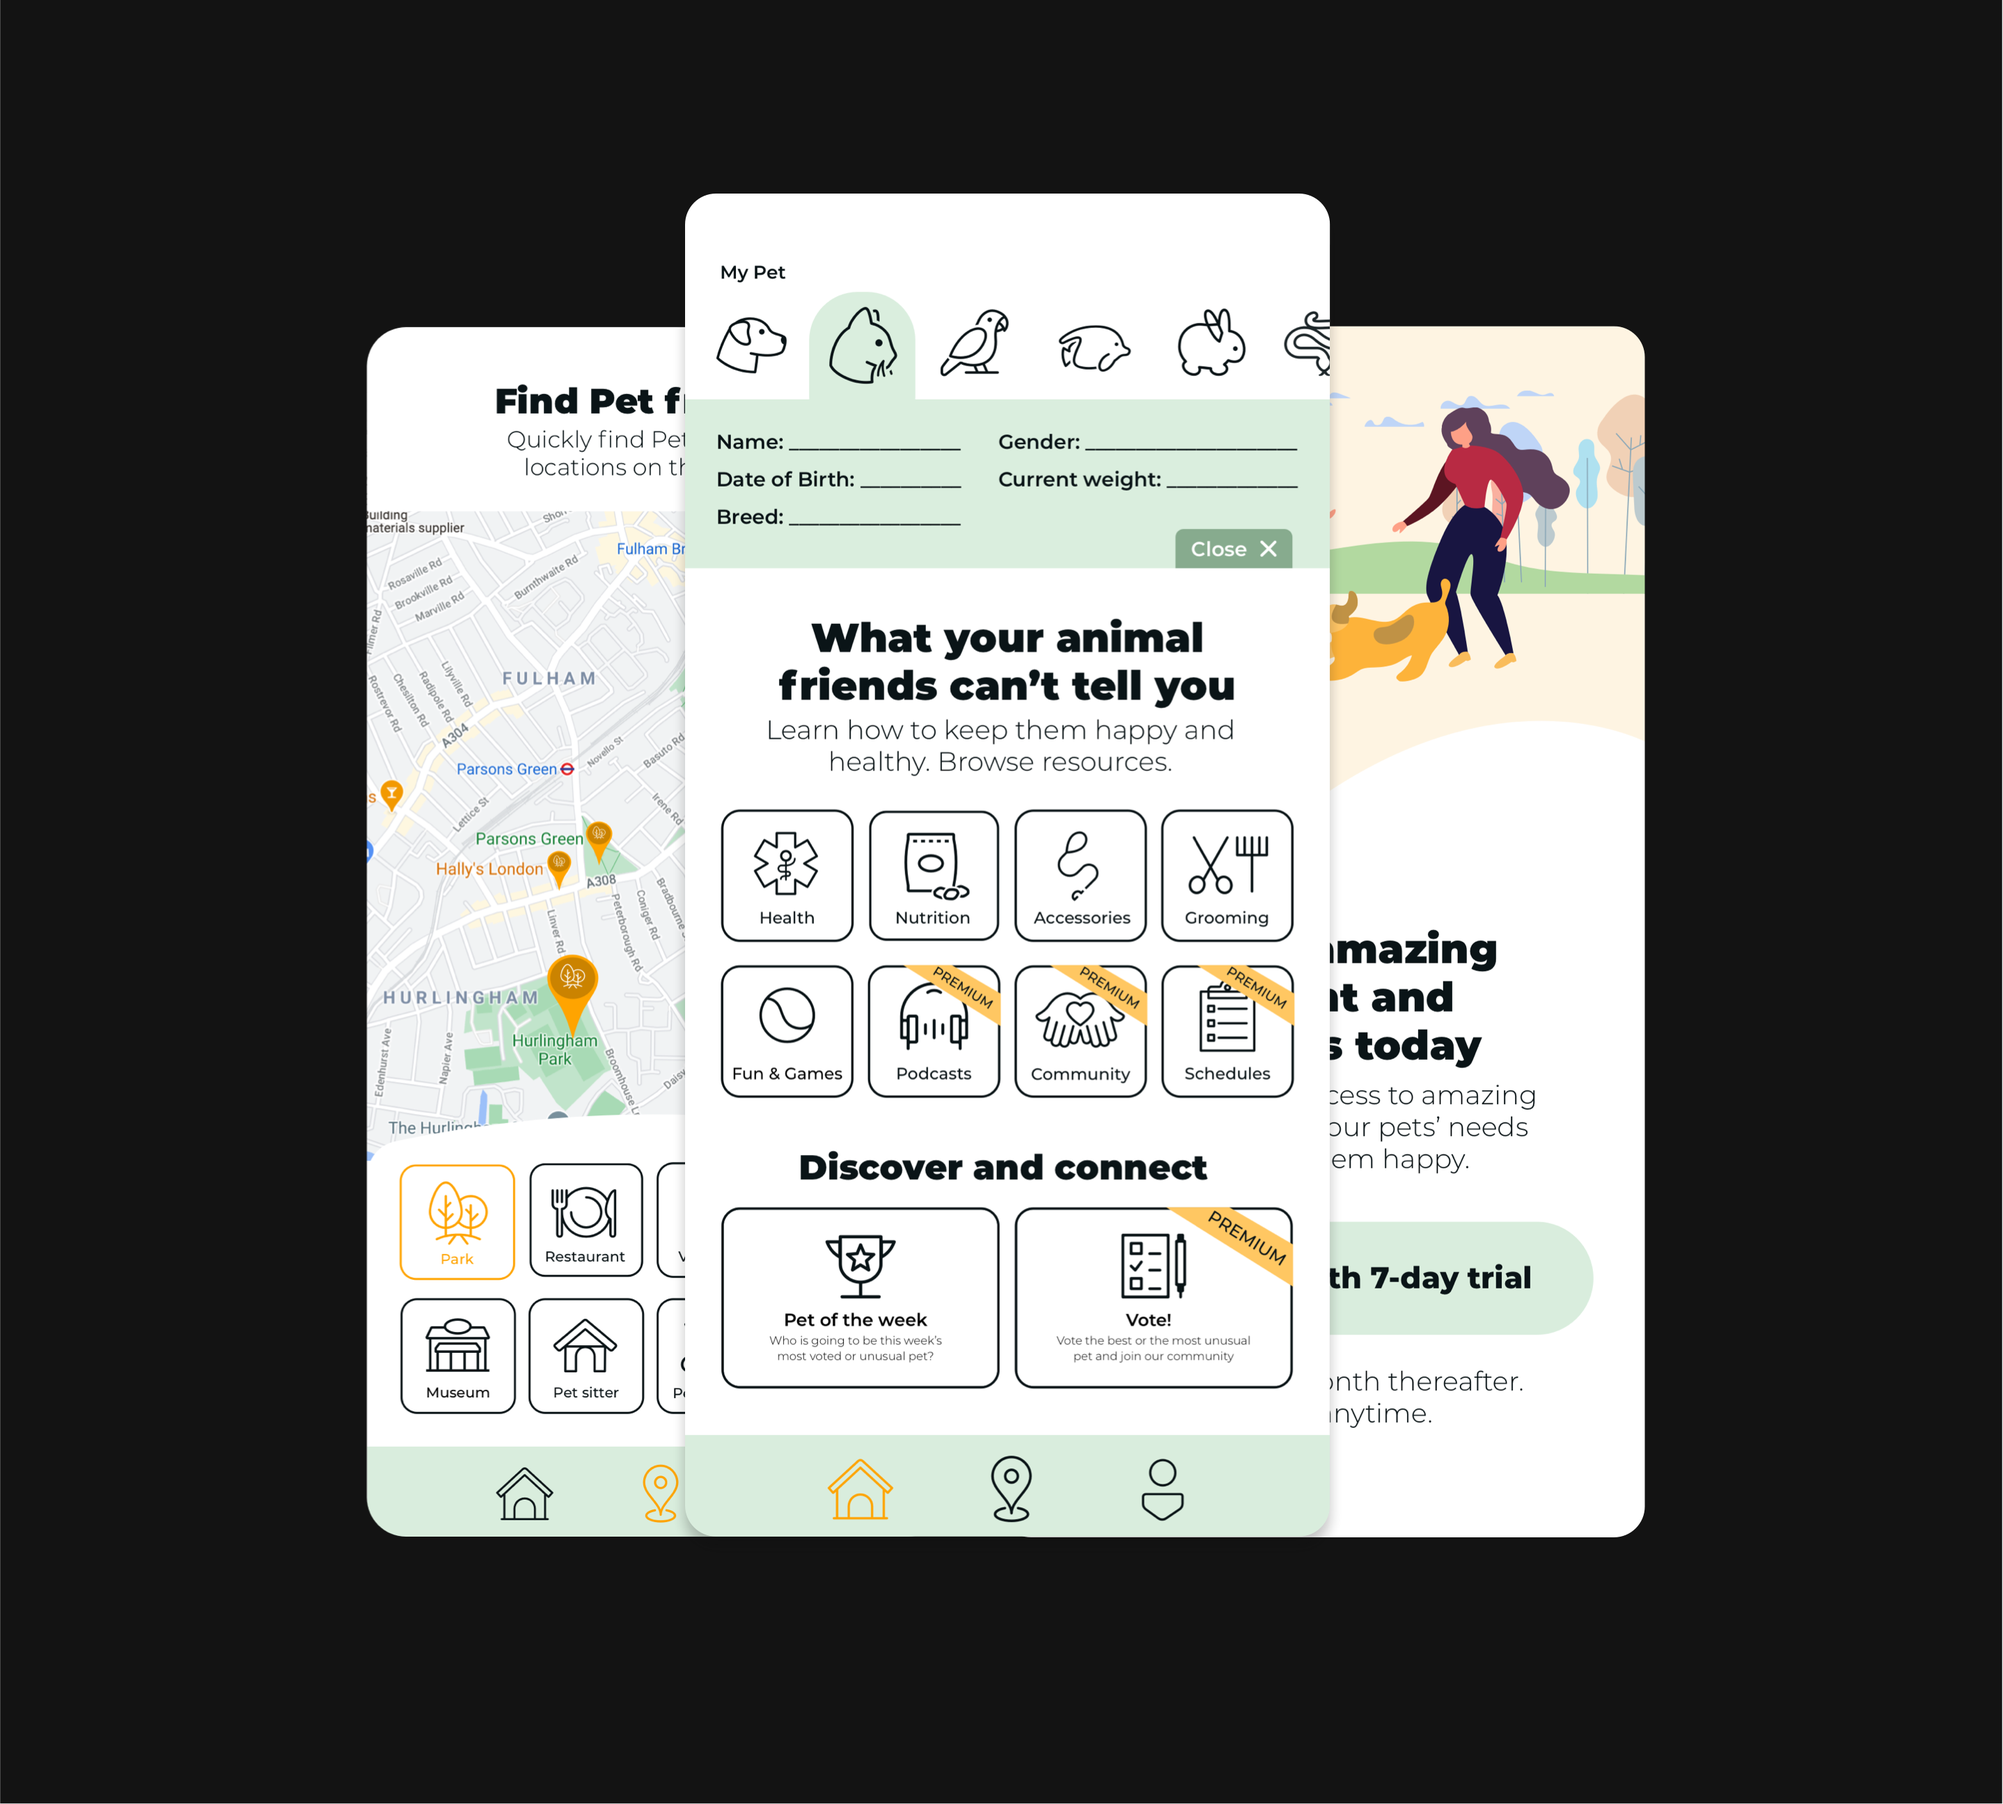
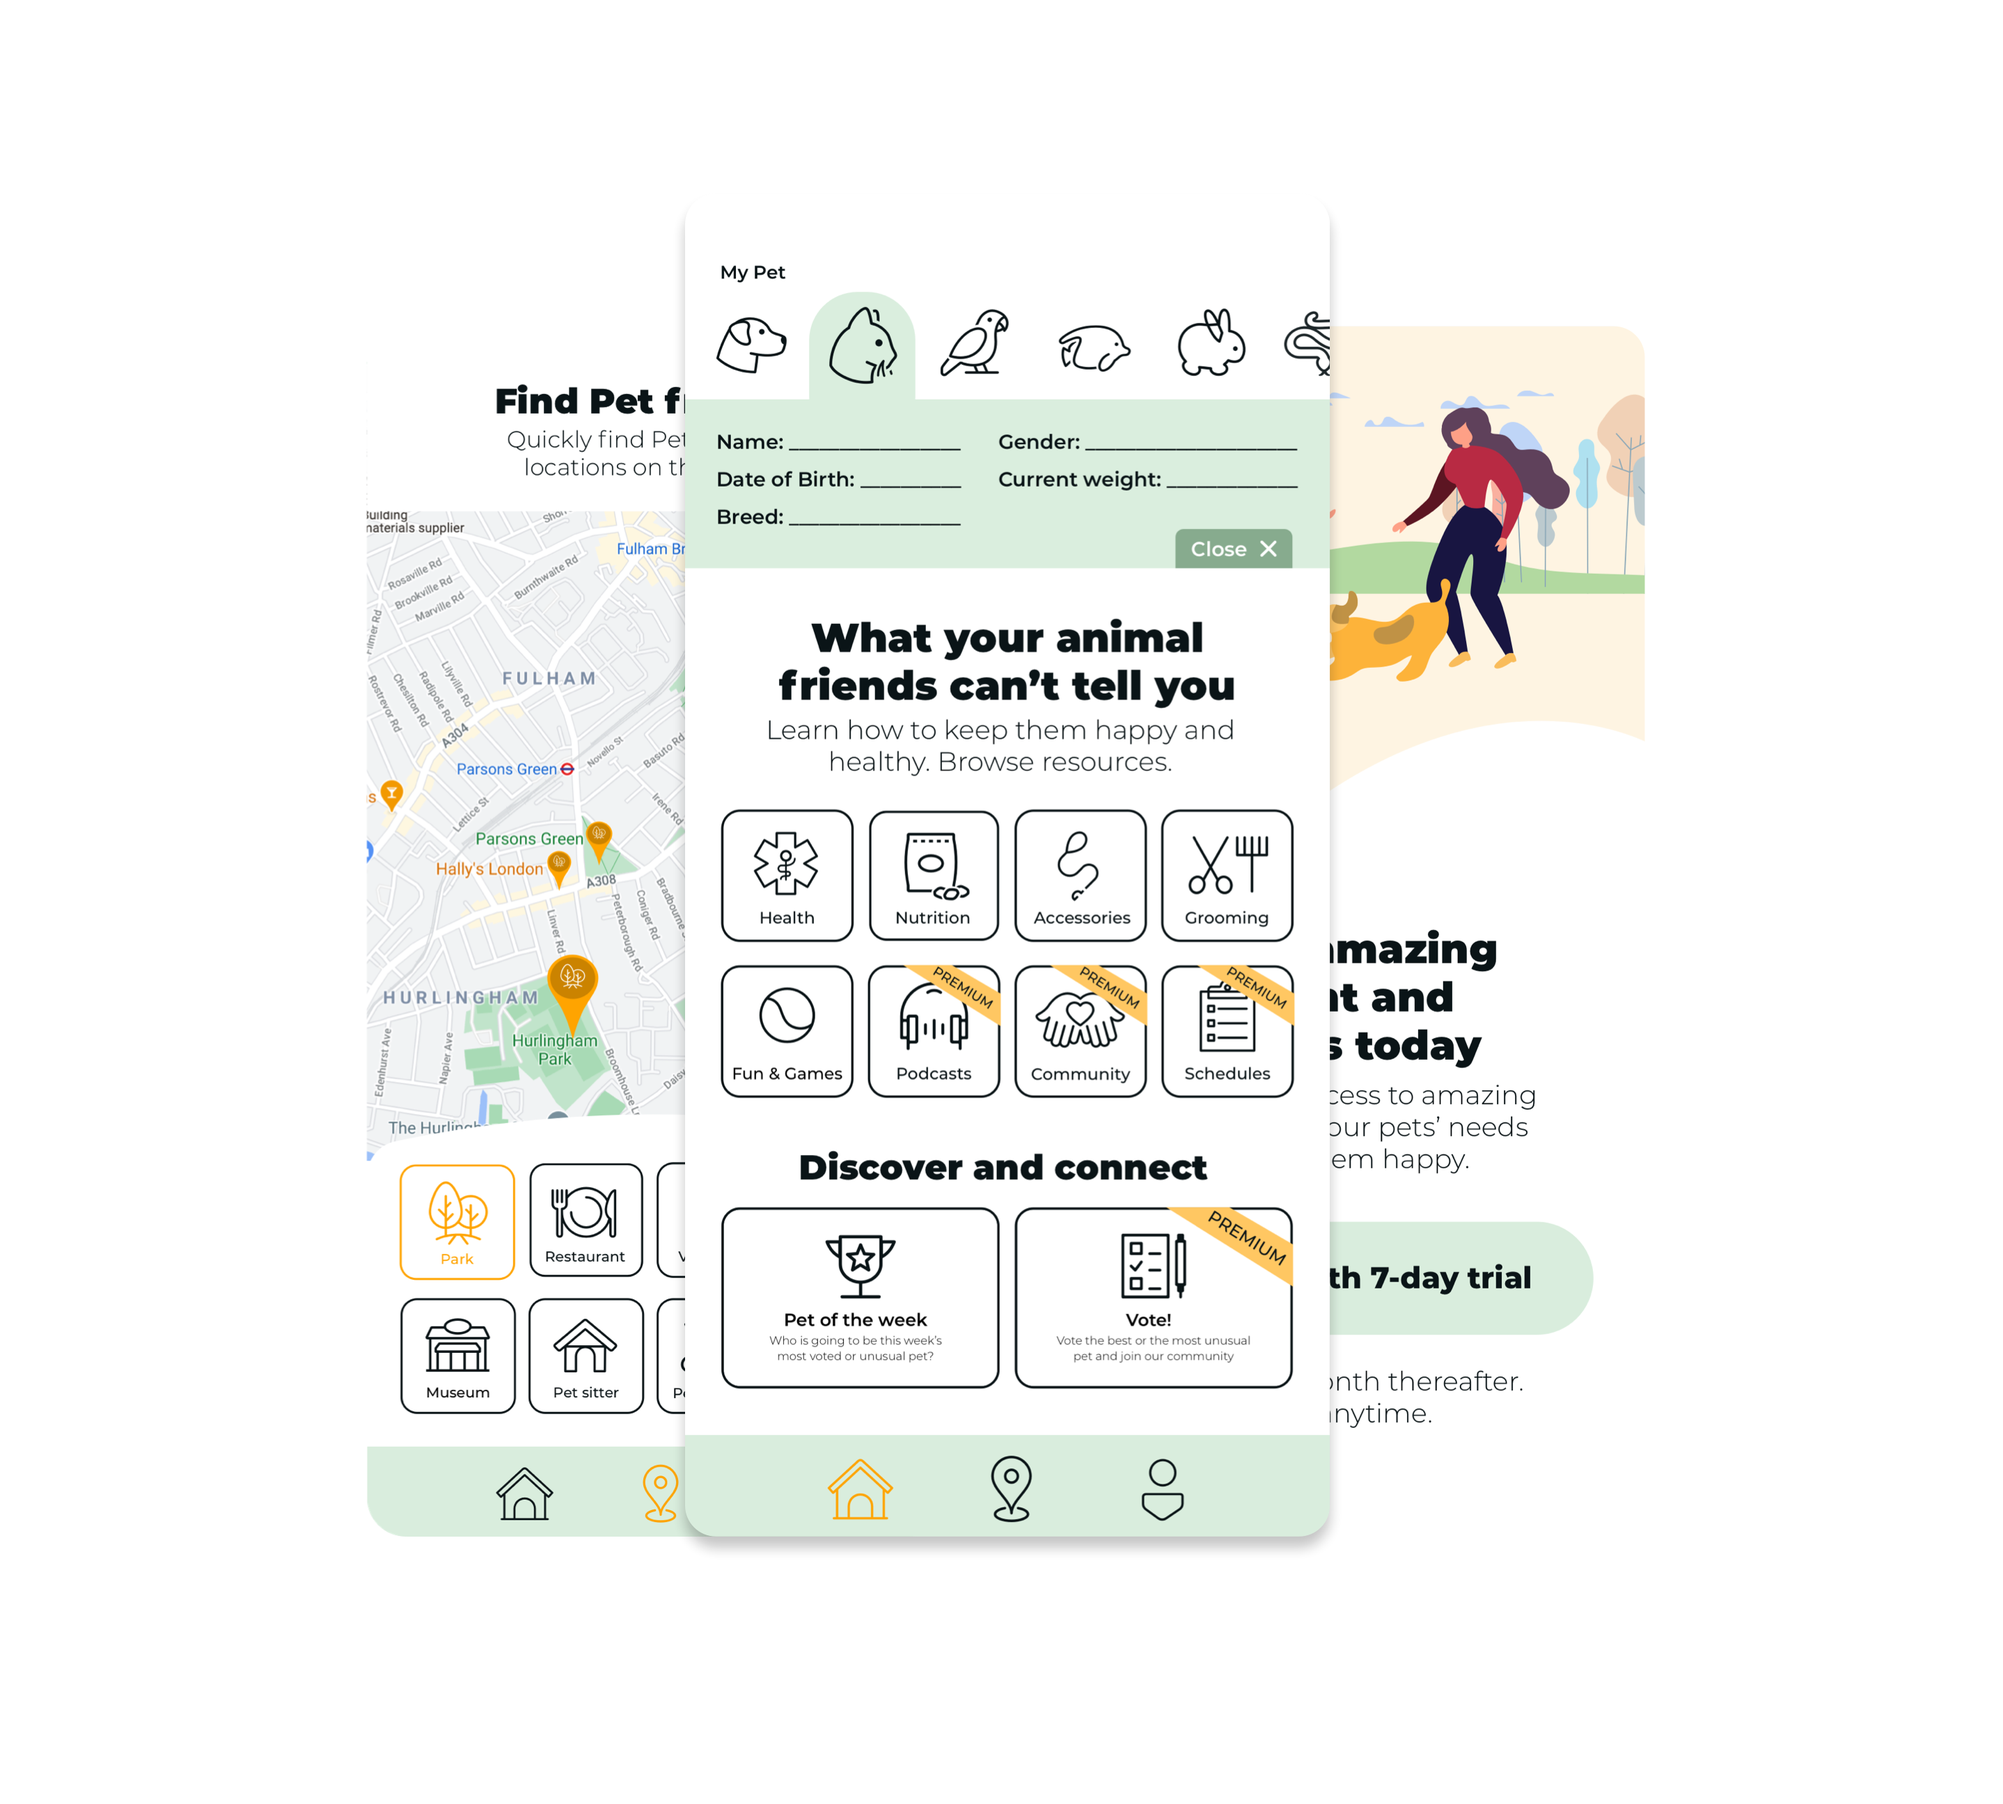
Visual update

diff --git a/src/pages/space-digest.js b/src/pages/space-digest.js
@@ -74,12 +74,12 @@ function spaceDigest() {
             <TransitionPageIn>
                <Img
                   fluid={data.spaceDigestImg_1.childImageSharp.fluid}
-                  className="max-w-screen-xxl mx-auto bg-blackPure"
+                  className="max-w-screen-xxl mx-auto bg-dark"
                   loading="eager"
                />
                <div className="w-full bg-white">
                   <div className="pt-10 pb-20 md:pt-28 md:pb-48">
-                     <section className="w-11/12 md:w-7/12 max-w-screen-lg mx-auto text-black md:flex mt-8 md:mt-32 mb-0">
+                     <section className="w-11/12 md:w-7/12 max-w-screen-lg mx-auto text-dark md:flex mt-8 md:mt-32 mb-0">
                         <div className="hidden md:block md:w-4/12 md:mt-20">
                            <h4 className="font-extrabold uppercase tracking-widest mt-2">Description</h4>
                            {/* <h4 className="pt-4">App design</h4> */}
@@ -93,7 +93,7 @@ function spaceDigest() {
                            </p>
                         </div>
                      </section>
-                     <section className="w-11/12 md:w-7/12 max-w-screen-lg mx-auto text-black md:flex mt-10 md:mt-12 mb-0">
+                     <section className="w-11/12 md:w-7/12 max-w-screen-lg mx-auto text-dark md:flex mt-10 md:mt-12 mb-0">
                         <div className="hidden md:block md:w-4/12 md:mt-20">
                            <h4 className="uppercase tracking-widest mt-2">Design</h4>
                            {/* <h4 className="pt-4">App design</h4> */}
@@ -107,7 +107,7 @@ function spaceDigest() {
                            </p>
                         </div>
                      </section>
-                     <section className="w-11/12 md:w-7/12 max-w-screen-lg mx-auto text-black md:flex mt-10 md:mt-12 mb-0">
+                     <section className="w-11/12 md:w-7/12 max-w-screen-lg mx-auto text-dark md:flex mt-10 md:mt-12 mb-0">
                         <div className="hidden md:block md:w-4/12 md:mt-20">
                            <h4 className="uppercase tracking-widest mt-2">Development</h4>
                            {/* <h4 className="pt-4">App design</h4> */}
@@ -122,7 +122,7 @@ function spaceDigest() {
                            </p>
                         </div>
                      </section>
-                     <section className="w-11/12 md:w-7/12 max-w-screen-lg mx-auto text-black md:flex mt-10 md:mt-12 mb-0">
+                     <section className="w-11/12 md:w-7/12 max-w-screen-lg mx-auto text-dark md:flex mt-10 md:mt-12 mb-0">
                         <div className="hidden md:block md:w-4/12 md:mt-20">
                            <h4 className="font-extrabold uppercase tracking-widest mt-2">Website</h4>
                            {/* <h4 className="pt-4">App design</h4> */}
@@ -139,7 +139,7 @@ function spaceDigest() {
                            </a>
                         </div>
                      </section>
-                     <section className="w-11/12 md:w-7/12 max-w-screen-lg mx-auto flex space-x-4 md:space-x-16 text-black mt-10 md:mt-32 mb-0">
+                     <section className="w-11/12 md:w-7/12 max-w-screen-lg mx-auto flex space-x-4 md:space-x-16 text-dark mt-10 md:mt-32 mb-0">
                         <Img
                            fluid={data.spaceDigestImg_2.childImageSharp.fluid}
                            className="flex-1 shadow-lg"
@@ -153,7 +153,7 @@ function spaceDigest() {
                            alt="App screen"
                         />
                      </section>
-                     <section className="w-11/12 md:w-7/12 max-w-screen-lg mx-auto flex space-x-4 md:space-x-16 text-black mt-10 md:mt-32 mb-0">
+                     <section className="w-11/12 md:w-7/12 max-w-screen-lg mx-auto flex space-x-4 md:space-x-16 text-dark mt-10 md:mt-32 mb-0">
                         <Img
                            fluid={data.spaceDigestImg_4.childImageSharp.fluid}
                            className="flex-1 shadow-lg"

diff --git a/src/pages/pet-time.js b/src/pages/pet-time.js
@@ -119,12 +119,12 @@ function petTime() {
             title="Portfolio page PetTime App"
          />
 
-         <div className="w-12/12 mx-auto bg-dark text-dark">
+         <div className="w-12/12 mx-auto bg-dark">
             <TransitionPageIn>
                <Img className="max-w-screen-xl mx-auto" fluid={data.petTime_1.childImageSharp.fluid} loading="eager" />
                <div className="w-full bg-white">
                   <div className="w-full mx-auto pt-1 pb-10 md:pb-20 md:pt-32">
-                     <section className="w-11/12 md:w-7/12 max-w-screen-lg mx-auto md:flex ">
+                     <section className="w-11/12 md:w-7/12 max-w-screen-lg mx-auto md:flex text-dark">
                         <div className="md:w-4/12 mt-0 hidden md:block md:mt-20">
                            <h4 className="font-extrabold uppercase tracking-widest mt-2">Description</h4>
                            <h4 className="pt-1">App design</h4>
@@ -145,7 +145,7 @@ function petTime() {
                            </p>
                         </div>
                      </section>
-                     <section className="w-11/12 md:w-7/12 max-w-screen-lg mx-auto text-black md:flex mt-8 md:mt-16 mb-0">
+                     <section className="w-11/12 md:w-7/12 max-w-screen-lg mx-auto text-dark md:flex mt-8 md:mt-16 mb-0">
                         <div className="hidden md:block md:w-4/12 mt-0 md:mt-20">
                            <h4 className="font-extrabold uppercase tracking-widest mt-2">Skills applied</h4>
                            <h4 className="pt-1">
@@ -185,7 +185,7 @@ function petTime() {
                            </p>
                         </div>
                      </section>
-                     <section className="w-11/12 md:w-7/12 max-w-screen-lg mx-auto text-black md:flex mt-8 md:mt-16 mb-0">
+                     <section className="w-11/12 md:w-7/12 max-w-screen-lg mx-auto text-dark md:flex mt-8 md:mt-16 mb-0">
                         <div className="hidden md:block md:w-4/12 mt-0 md:mt-20">
                            <h4 className="font-extrabold uppercase tracking-widest mt-2">Problem</h4>
                         </div>
@@ -203,7 +203,7 @@ function petTime() {
                            </p>
                         </div>
                      </section>
-                     <section className="w-11/12 md:w-7/12 max-w-screen-lg mx-auto text-black md:flex mt-8 md:mt-16 mb-0">
+                     <section className="w-11/12 md:w-7/12 max-w-screen-lg mx-auto text-dark md:flex mt-8 md:mt-16 mb-0">
                         <div className="hidden md:block md:w-4/12 mt-0 mb-10 md:mt-20">
                            <h4 className="font-extrabold uppercase tracking-widest mt-2">Solution</h4>
                         </div>
@@ -217,7 +217,7 @@ function petTime() {
                            </p>
                         </div>
                      </section>
-                     <section className="w-11/12 md:w-7/12 max-w-screen-lg mx-auto text-black mt-8 md:mt-16 mb-0">
+                     <section className="w-11/12 md:w-7/12 max-w-screen-lg mx-auto text-dark mt-8 md:mt-16 mb-0">
                         <div className="md:flex">
                            <div className="hidden md:block md:w-4/12 mt-0 md:mt-20"></div>
                            <h2 className="mb-4 md:mb-8">User Personas</h2>
@@ -239,7 +239,7 @@ function petTime() {
                            ))}
                         </div>
                      </section>
-                     <section className="w-11/12 md:w-7/12 max-w-screen-lg mx-auto text-black md:flex mt-8 md:mt-16 mb-0">
+                     <section className="w-11/12 md:w-7/12 max-w-screen-lg mx-auto text-dark md:flex mt-8 md:mt-16 mb-0">
                         <div className="hidden md:block md:w-4/12 mt-0 md:mt-20">
                            <h4 className="font-extrabold uppercase tracking-widest md:mt-3">Flow</h4>
                         </div>

diff --git a/src/pages/buzzsumo.js b/src/pages/buzzsumo.js
@@ -66,7 +66,7 @@ function classNameica() {
             <TransitionPageIn>
                <Img fluid={data.heroImg.childImageSharp.fluid} className="" loading="eager" />
                <div className="w-full max-w-screen-lg mx-auto pb-20 md:pb-24">
-                  <section className="w-11/12 md:w-/12 mx-auto text-black md:flex mt-10 md:mt-32 mb-0">
+                  <section className="w-11/12 md:w-/12 mx-auto text-dark md:flex mt-10 md:mt-32 mb-0">
                      <div className="hidden md:block md:w-4/12 mt-24">
                         <h4 className="font-bold uppercase tracking-widest">Skills applied</h4>
                         <h4 className="pt-4">
@@ -84,7 +84,7 @@ function classNameica() {
                      </div>
                   </section>
 
-                  <section className="w-11/12 max-w-screen-lg mx-auto text-black md:flex mt-10 md:mt-24 mb-0">
+                  <section className="w-11/12 max-w-screen-lg mx-auto text-dark md:flex mt-10 md:mt-24 mb-0">
                      <div className="hidden md:block md:w-4/12 mt-24">
                         <h4 className="font-bold uppercase tracking-widest">Blog header images</h4>
                      </div>
@@ -99,7 +99,7 @@ function classNameica() {
                      </div>
                   </section>
 
-                  <section className="w-11/12 max-w-screen-lg mx-auto text-black md:flex mt-10 md:mt-12 mb-0">
+                  <section className="w-11/12 max-w-screen-lg mx-auto text-dark md:flex mt-10 md:mt-12 mb-0">
                      <div className="hidden md:block md:w-4/12 mt-24">
                         <h4 className="font-extrabold uppercase tracking-widest">Live</h4>
                         {/* <h4 className="pt-4">App design</h4> */}
@@ -133,7 +133,7 @@ function classNameica() {
                   </div>
                </section>
 
-               <section className="w-11/12 md:w-8/12 max-w-screen-lg mx-auto text-black  mt-10 md:mt-32 mb-0">
+               <section className="w-11/12 md:w-8/12 max-w-screen-lg mx-auto text-dark  mt-10 md:mt-32 mb-0">
                   <div className="mt-16 md:mt-0 md:pr-24 mb-40">
                      <h2 className="mb-4 md:mb-8">Web page</h2>
                      <p>How the image come together in the grid on Buzzsumo's blog page.</p>

diff --git a/src/pages/shuush.js b/src/pages/shuush.js
@@ -109,7 +109,7 @@ function Shuush() {
                   fluid={data.shuushImg_0.childImageSharp.fluid}
                   loading="eager"
                />
-               <section className="w-11/12 md:w-7/12 max-w-screen-lg mx-auto text-black md:flex mt-8 md:mt-0 mb-10 md:mb-0">
+               <section className="w-11/12 md:w-7/12 max-w-screen-lg mx-auto text-dark md:flex mt-8 md:mt-0 mb-10 md:mb-0">
                   <div className="md:w-4/12 md:mt-20">
                      <h4 className="font-extrabold uppercase tracking-widest">Description</h4>
                      <h4 className="pt-4">App design</h4>
